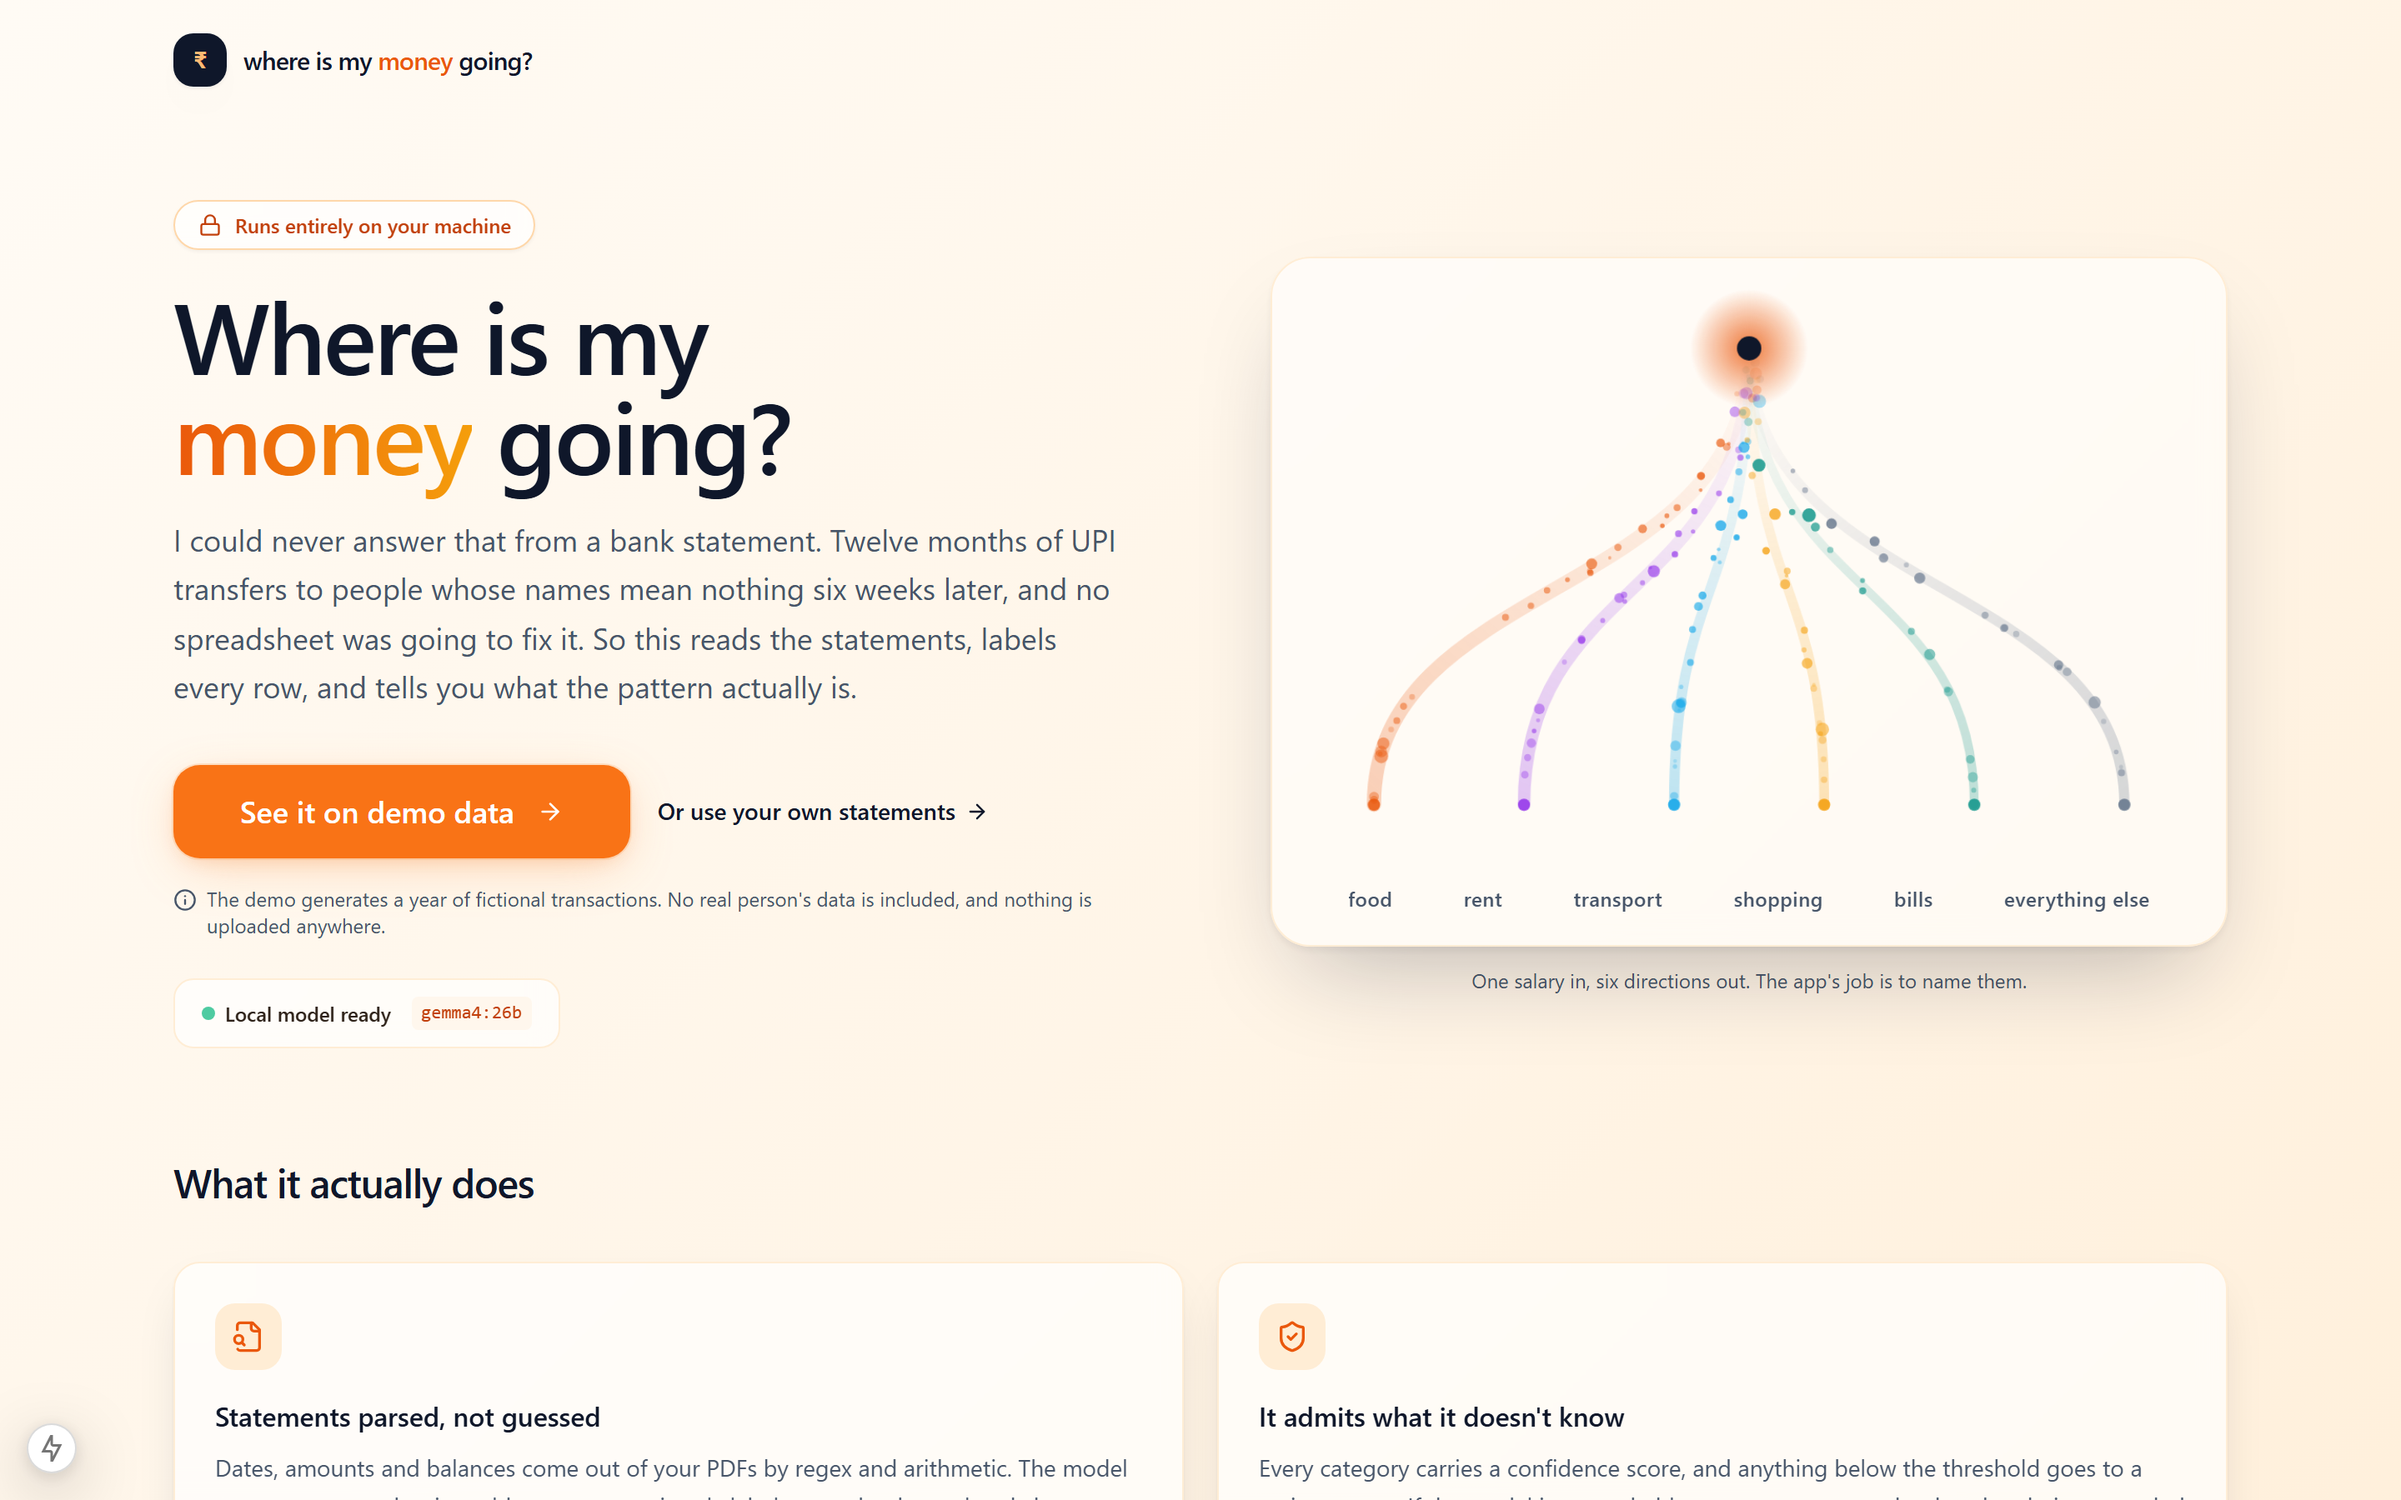
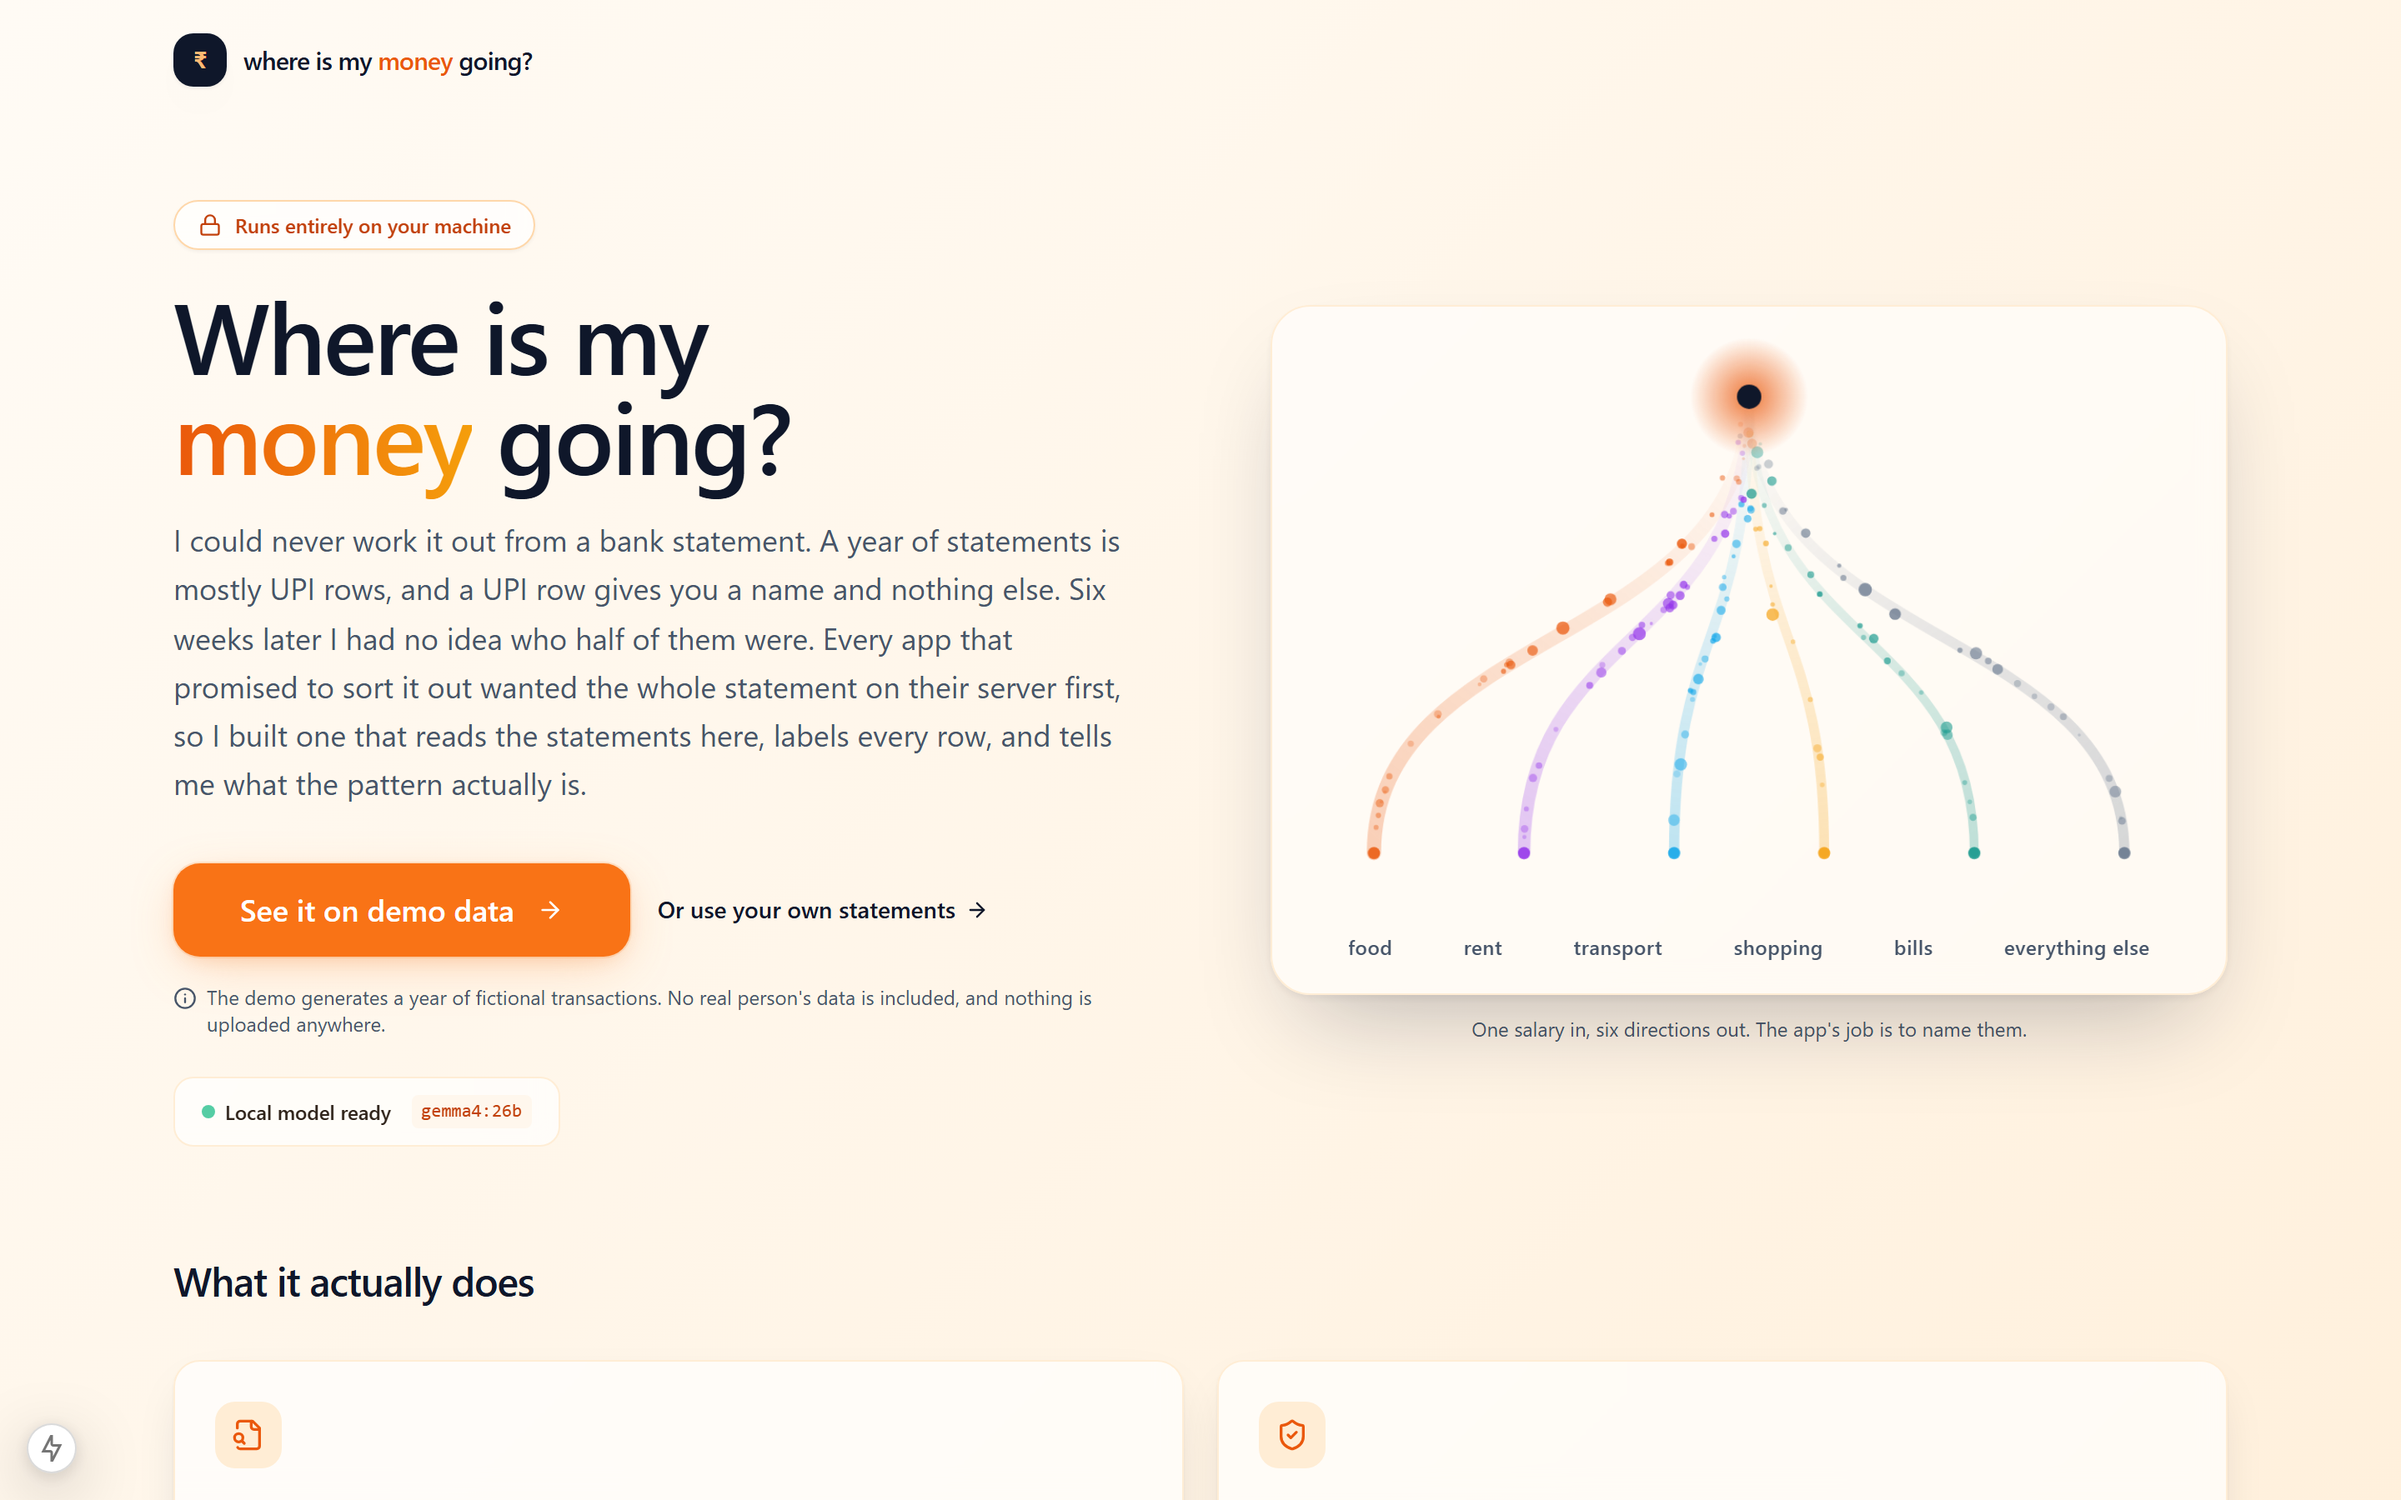
copy: rewrite the landing story and drop em dashes from the interface
The landing hero still carried the older opening. It now matches the README's
account: a year of statements is mostly UPI rows, a UPI row gives you a name and
nothing else, and every app that offered to sort it out wanted the statement on
its server first.

Also removed em dashes from user-facing strings across the app and the CLI, and
reworded the anomaly card so instalment detection is described as a capability
rather than something the reader is assumed to have forgotten about.

Em dashes used as an empty-value placeholder in tables are left alone, as are
code comments and docstrings.

Screenshots regenerated for the pages whose copy moved.

Verified: 158 backend tests, 10 frontend tests, ruff, mypy, ESLint and tsc clean.
Swept every page at 375/414/768/1024/1280/1600px for horizontal overflow and
clipped content: none.

diff --git a/frontend/app/page.tsx b/frontend/app/page.tsx
@@ -25,7 +25,7 @@ const CAPABILITIES = [
     title: "Statements parsed, not guessed",
     body:
       "Dates, amounts and balances come out of your PDFs by regex and arithmetic. " +
-      "The model never sees a number it could get wrong — it only labels rows that " +
+      "The model never sees a number it could get wrong. It only labels rows that " +
       "have already been extracted.",
   },
   {
@@ -48,9 +48,9 @@ const CAPABILITIES = [
     icon: ScanLine,
     title: "Catches what a chart hides",
     body:
-      "Duplicate charges, instalment plans you forgot converting, subscriptions " +
-      "that quietly renew, refunds that never arrived. All deterministic checks, " +
-      "all explainable.",
+      "Duplicate charges, subscriptions that quietly renew, refunds that never " +
+      "arrived, instalment plans still running, card bills counted twice. All " +
+      "deterministic checks, all explainable.",
   },
 ];
 
@@ -119,10 +119,12 @@ export default function Landing() {
             transition={{ duration: 0.55, delay: 0.12 }}
             className="mt-5 max-w-xl text-lg leading-relaxed text-ink-muted"
           >
-            I could never answer that from a bank statement. Twelve months of UPI
-            transfers to people whose names mean nothing six weeks later, and no
-            spreadsheet was going to fix it. So this reads the statements, labels
-            every row, and tells you what the pattern actually is.
+            I could never work it out from a bank statement. A year of statements
+            is mostly UPI rows, and a UPI row gives you a name and nothing else.
+            Six weeks later I had no idea who half of them were. Every app that
+            promised to sort it out wanted the whole statement on their server
+            first, so I built one that reads the statements here, labels every
+            row, and tells me what the pattern actually is.
           </motion.p>
 
           <motion.div
@@ -192,7 +194,7 @@ export default function Landing() {
           )}
           {run && (
             <p className="mt-4 rounded-lg border border-emerald-200 bg-emerald-50 px-4 py-2.5 text-sm text-emerald-800">
-              Run #{run.id} finished — {run.transactions_processed} transactions. Opening the dashboard…
+              Run #{run.id} finished. {run.transactions_processed} transactions. Opening the dashboard…
             </p>
           )}
         </div>
@@ -237,8 +239,9 @@ export default function Landing() {
           <p className="mt-3 max-w-3xl text-sm leading-relaxed text-ink-muted">
             A LangGraph pipeline does the work: parse or generate, store with a
             deterministic id so re-ingesting a statement is a no-op, categorise with
-            a local model under schema-constrained decoding, then two agents refine —
-            one finds people, one re-checks the tags the first pass was unsure about.
+            a local model under schema-constrained decoding, then two agents refine it.
+            One finds people, the other re-checks the tags the first pass was unsure
+            about.
             FastAPI and SQLite behind it, Next.js in front, and one PDF report at the
             end.
           </p>

diff --git a/frontend/app/ingest/page.tsx b/frontend/app/ingest/page.tsx
@@ -102,7 +102,7 @@ export default function IngestPage() {
           </h1>
           <p className="mt-1 text-sm text-muted-foreground">
             Drop bank or credit-card statements. Files are
-            parsed locally — they never leave your machine.
+            parsed locally and never leave your machine.
           </p>
         </div>
         <Badge tone="good">Local-first · gitignored</Badge>
@@ -211,7 +211,7 @@ export default function IngestPage() {
               with the running balance for direction inference.
             </Step>
             <Step n={2} title="Dedup">
-              Each row gets a deterministic <code className="text-xs">external_id</code> —
+              Each row gets a deterministic <code className="text-xs">external_id</code>, so
               files with overlapping date ranges are safely re-ingested.
             </Step>
             <Step n={3} title="Tag">
@@ -226,7 +226,7 @@ export default function IngestPage() {
               to review.
             </Step>
             <Step n={6} title="Persist">
-              SQLite at <code className="text-xs">backend/storage/wimmg.db</code> —
+              SQLite at <code className="text-xs">backend/storage/wimmg.db</code>, which is
               gitignored.
             </Step>
           </CardContent>

diff --git a/frontend/components/InsightsList.tsx b/frontend/components/InsightsList.tsx
@@ -48,7 +48,7 @@ export function InsightsList({ cards }: { cards: IC[] }) {
                     outage is visible rather than silently papered over. */}
                 {c.generated_by === "computed" && (
                   <p className="mt-1.5 text-[11px] uppercase tracking-wide text-muted-foreground/70">
-                    Computed from your figures — the local model was unavailable
+                    Computed from your figures. The local model was unavailable
                   </p>
                 )}
               </div>

diff --git a/frontend/app/receipt/page.tsx b/frontend/app/receipt/page.tsx
@@ -49,7 +49,7 @@ export default function ReceiptPage() {
         <p className="text-sm text-muted-foreground">
           Drop a photo of a receipt. The local vision model reads the merchant, total and
           date, and files it as a transaction. Unlike statement parsing, this step has
-          no deterministic fallback — it either reads the image or tells you it could not.
+          no deterministic fallback: it either reads the image or tells you it could not.
         </p>
       </div>
 

diff --git a/frontend/app/dashboard/page.tsx b/frontend/app/dashboard/page.tsx
@@ -57,7 +57,7 @@ export default function DashboardPage() {
           <h3 className="font-semibold">Couldn&apos;t load dashboard</h3>
           <p className="mt-1 text-sm">{err}</p>
           <p className="mt-3 text-xs text-red-600">
-            Load some data first — open the home page and choose <strong>See it on demo data</strong>.
+            Load some data first. Open the home page and choose <strong>See it on demo data</strong>.
           </p>
         </div>
       </Shell>

diff --git a/frontend/app/pipeline/page.tsx b/frontend/app/pipeline/page.tsx
@@ -189,7 +189,7 @@ export default function PipelinePage() {
               {runs.length === 0 && (
                 <tr>
                   <td colSpan={7} className="px-5 py-8 text-center text-muted-foreground">
-                    No runs yet — kick one off above.
+                    No runs yet. Kick one off above.
                   </td>
                 </tr>
               )}

diff --git a/frontend/app/people/page.tsx b/frontend/app/people/page.tsx
@@ -94,7 +94,7 @@ export default function PeoplePage() {
 }
 
 function Empty() {
-  return <p className="text-sm text-muted-foreground">— nothing here</p>;
+  return <p className="text-sm text-muted-foreground">nothing here yet</p>;
 }
 
 function PersonRow({ p, i, positive }: { p: PersonBalance; i: number; positive: boolean | null }) {

diff --git a/backend/app/cli.py b/backend/app/cli.py
@@ -76,7 +76,7 @@ async def cmd_status(_args: argparse.Namespace) -> int:
         if not health["model_pulled"]:
             print(f"             run: ollama pull {settings.llm_model}")
     else:
-        print(f"  Status     unreachable — {health.get('error')}")
+        print(f"  Status     unreachable: {health.get('error')}")
         print("             start Ollama, then re-run this command")
 
     with SessionLocal() as db:
@@ -169,7 +169,7 @@ async def cmd_tag(_args: argparse.Namespace) -> int:
         print(f"  categorised    {state.get('llm_tagged', 0)}")
         print(f"  need review    {state.get('needs_review', 0)}")
         if state.get("llm_failed"):
-            print(f"  still untagged {state['llm_failed']} — the model was unreachable")
+            print(f"  still untagged {state['llm_failed']} (the model was unreachable)")
             return 1
     return 0
 
@@ -260,7 +260,7 @@ async def cmd_report(args: argparse.Namespace) -> int:
     from app.reports import render_spend_analysis
 
     output = Path(args.output or f"spend-analysis-{utc_now():%Y%m%d-%H%M}.pdf")
-    print("Generating the report — several model passes, expect a minute or two…")
+    print("Generating the report. Several model passes, expect a minute or two…")
     with SessionLocal() as db:
         pdf = await render_spend_analysis(db)
     output.write_bytes(pdf)
@@ -294,13 +294,13 @@ async def cmd_reset(args: argparse.Namespace) -> int:
 
 
 def _report_run(run: PipelineRun) -> None:
-    _heading(f"Run #{run.id} — {run.status}")
+    _heading(f"Run #{run.id}: {run.status}")
     print(f"  processed      {run.transactions_processed}")
     print(f"  rule-tagged    {run.rule_tagged}")
     print(f"  model-tagged   {run.llm_tagged}")
     print(f"  need review    {run.needs_review}")
     if not run.llm_available:
-        print(f"  UNTAGGED       {run.llm_failed} — the model was unreachable.")
+        print(f"  UNTAGGED       {run.llm_failed} (the model was unreachable)")
         print("                 Re-run `wimmg tag` once it is back.")
     if run.node_timings_ms:
         slowest = sorted(run.node_timings_ms.items(), key=lambda kv: -kv[1])
@@ -316,7 +316,7 @@ def _report_run(run: PipelineRun) -> None:
 def build_parser() -> argparse.ArgumentParser:
     parser = argparse.ArgumentParser(
         prog="wimmg",
-        description=f"{APP_NAME} — local-first spending analysis.",
+        description=f"{APP_NAME}: local-first spending analysis.",
     )
     parser.add_argument("-v", "--verbose", action="store_true", help="debug logging")
     subparsers = parser.add_subparsers(dest="command", required=True)
